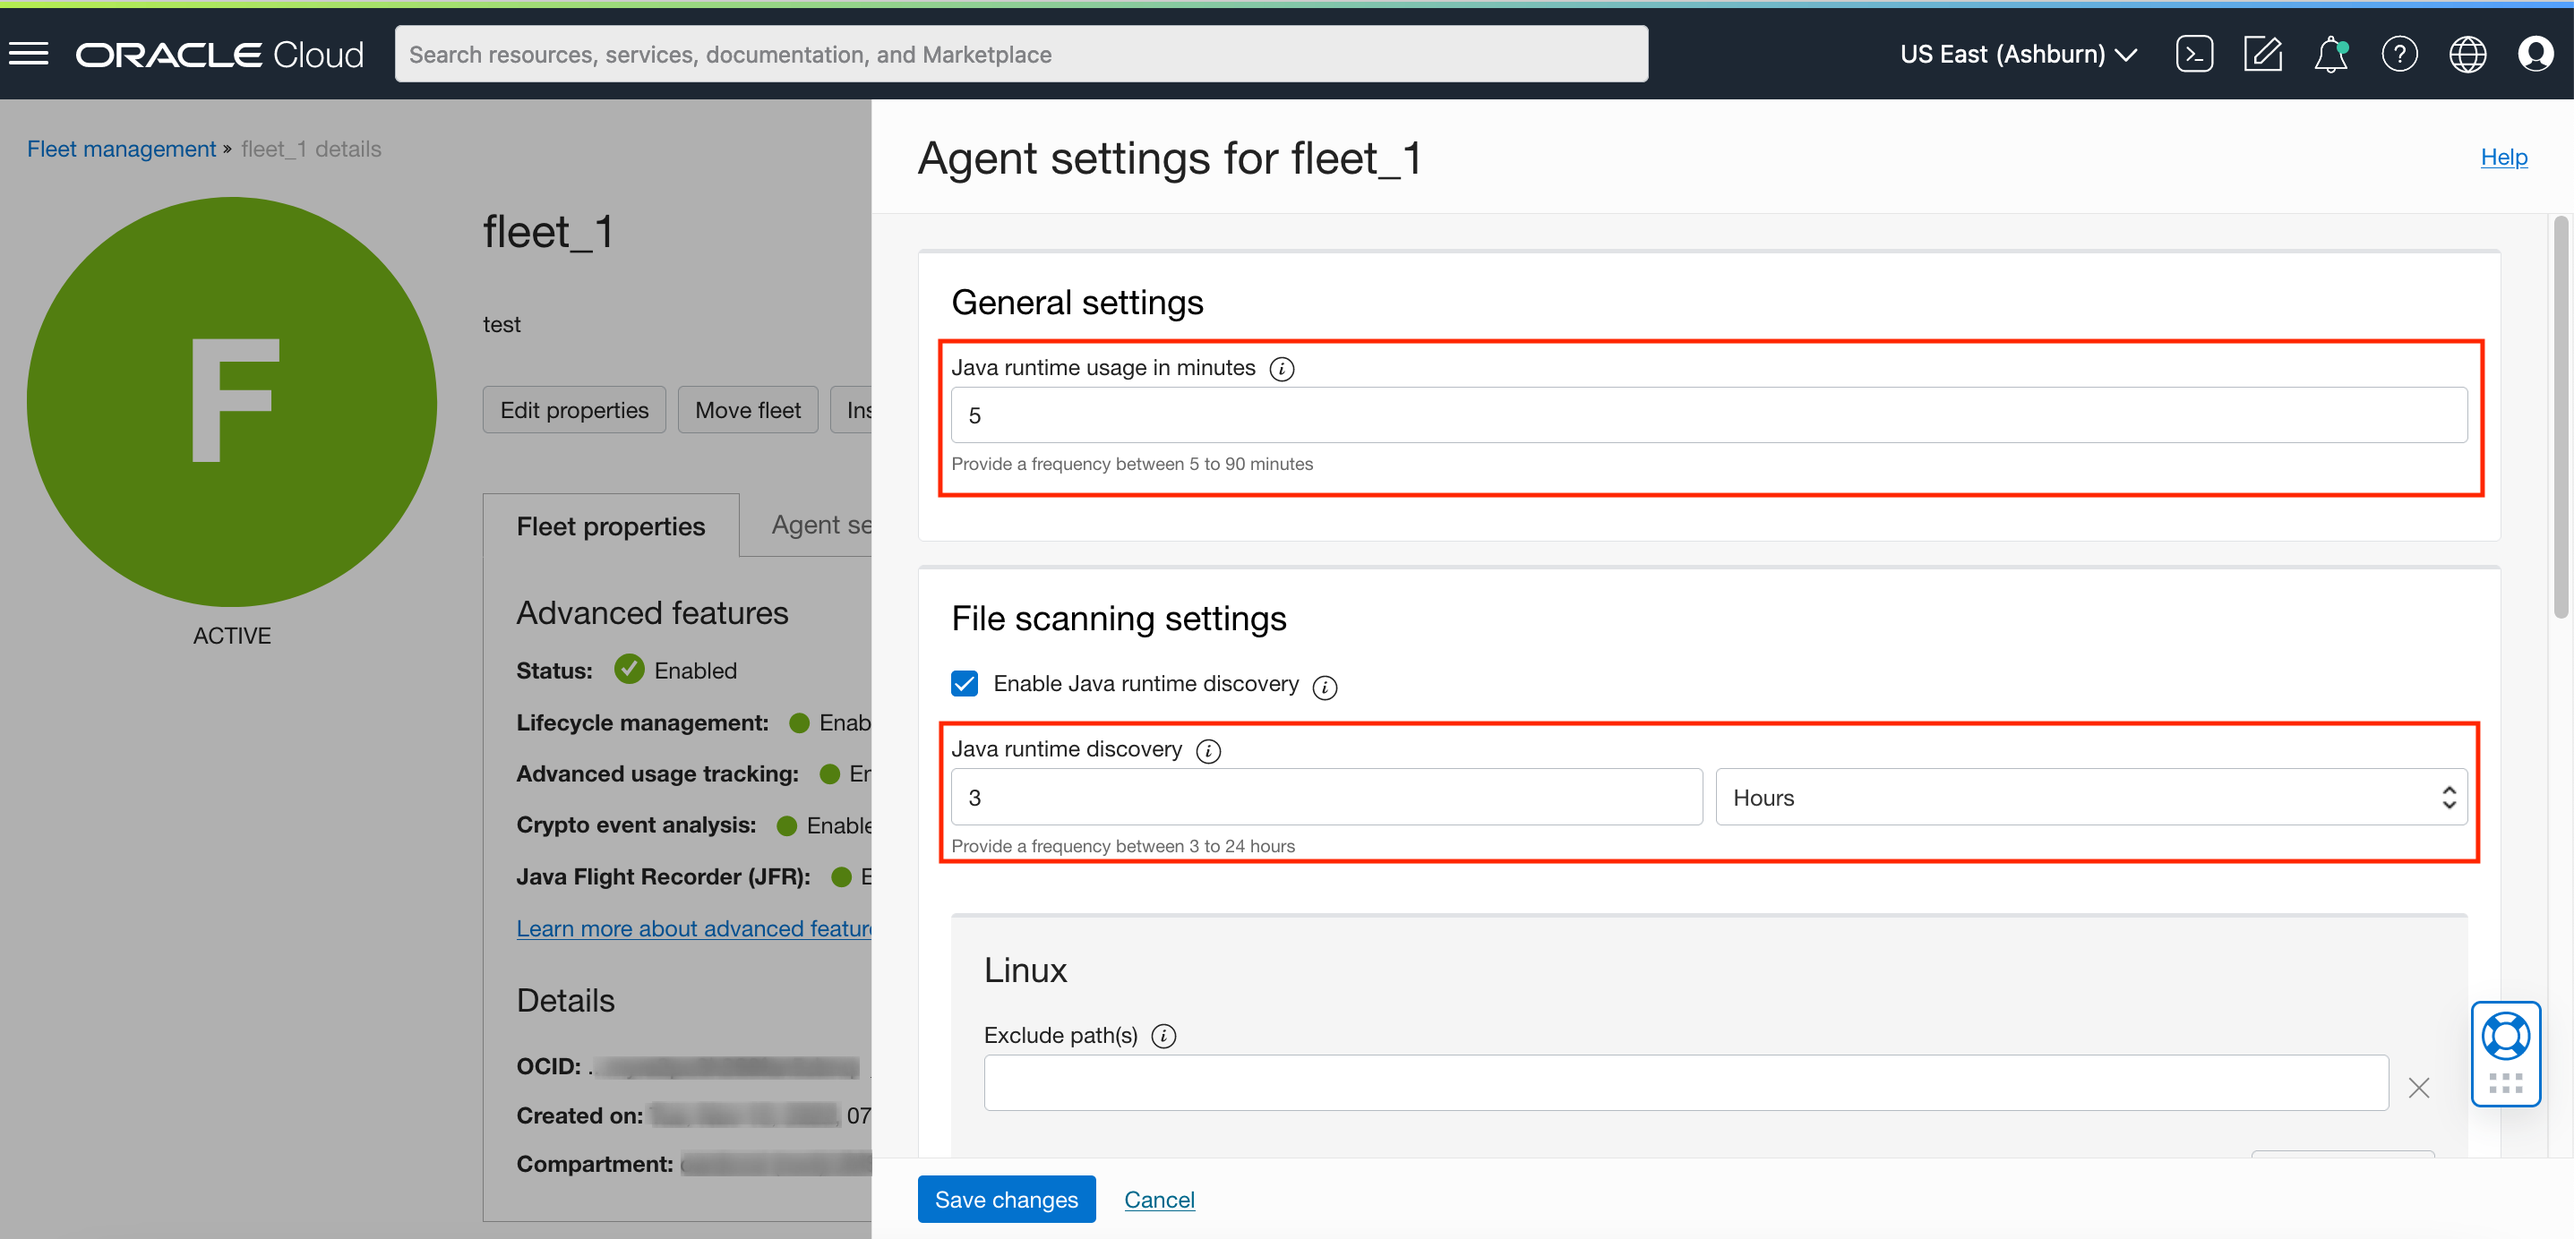
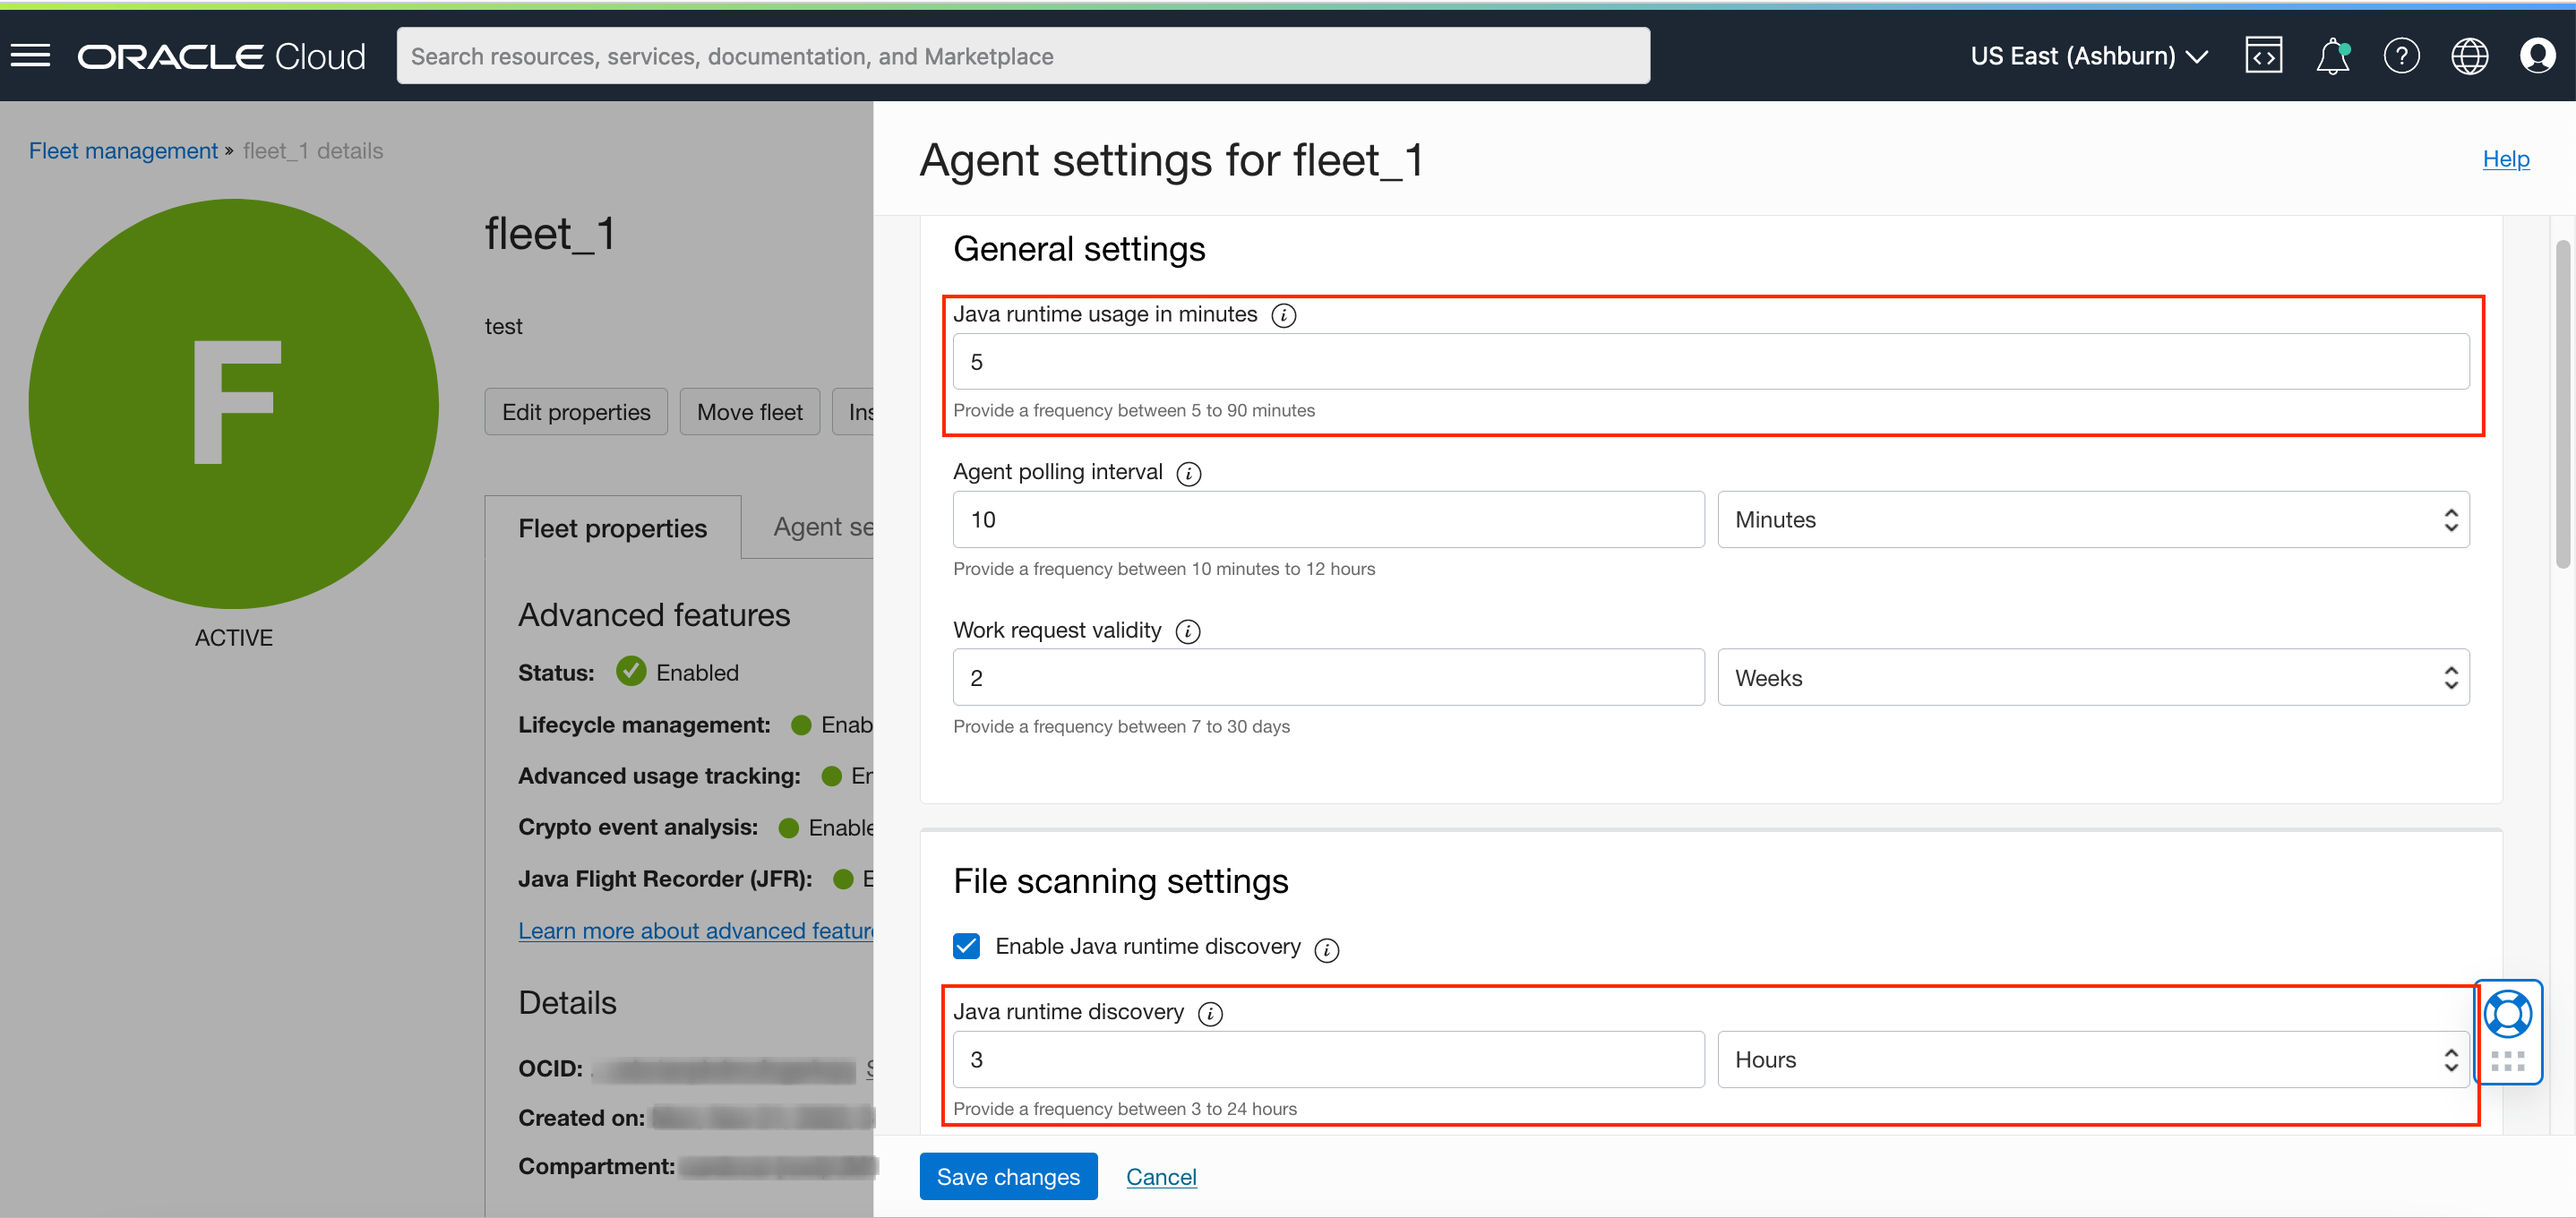
Updated images, added new policies in setup-a-fleet, modified set-up-of-management-agent

diff --git a/java-management/set-up-of-management-agent/set-up-of-management-agent.md b/java-management/set-up-of-management-agent/set-up-of-management-agent.md
@@ -21,27 +21,31 @@ In this lab, you will:
 - You are using an Oracle Linux image or Windows OS on your Managed Instance for this lab.
 - Access to the cloud environment and resources configured in [Lab 2](?lab=setup-a-fleet).
 
-## Task 1: Install Management Agent
+## Task 1: Install Management Agent on an OCI Host
 
-> **Note:** If you are installing the agent on an **OCI compute instance**, you need to add this policy. You can remove the policy after you've installed the management agent.
+This task is for the installation of Management Agent in an OCI Host (OCI Compute Instance). If you are installing the agent on a non-OCI host (e.g. on premise, other cloud computes) please skip to Task 2.
 
-  To add a policy, in the Oracle Cloud Console, open the navigation menu and click **Identity & Security**. Under **Identity**, click **Policies**.
+**Pre-installation Policy Requirement**
+
+  >**Note:** If you are installing the agent on an OCI compute instance, you need to add this policy. You can remove the policy after you've installed the management agent.
+
+  1. To add a policy, in the Oracle Cloud Console, open the navigation menu and click **Identity & Security**. Under **Identity**, click **Policies**.
 
   ![image of console navigation to java management](images/navigate-policies.png)
 
-  Click **JMS-policies**.
+  2. Click **JMS-policies**.
   
   ![image of console navigation to java management](images/root-compartment-jms-policy.png)
 
-  Click **Edit Policy Statements**
+  3. Click **Edit Policy Statements**
   
   ![image of console navigation to java management](images/edit-jms-policy.png)
   
-  Click **+Another Statement** at the bottom right. 
+  4. Click **+Another Statement** at the bottom right. 
   
   ![image of console navigation to java management](images/jms-policy-add.png)
   
-  Add the following policy. Click **Save** to save the policy.
+  5. Add the following policy. Click **Save** to save the policy.
 
   ```
   <copy>
@@ -89,7 +93,51 @@ In this lab, you will:
      Assigned JMS Fleet is YourFleetName (ocid1.jmsfleet.oc1.iad.<some ocid hash>).
      ```
 
-**On Linux (on premise)**
+**On Windows (on OCI)**
+
+1. Prepare the **installation script** for Windows downloaded in [Lab 2](?lab=setup-a-fleet).
+
+2. Run Windows Powershell as administrator.
+
+3. Enter the following command to unblock the installation script.
+
+    ```
+    <copy>
+    Unblock-File -Path <path-to-installation-script>
+    </copy>
+    ```
+
+4. Enter the following command to run the installation script. The installation may take some time to complete.
+
+    ```
+    <copy>
+    & <path-to-installation-script>
+    </copy>
+    ```
+
+5. If installation is successful, you'll see a message similar to the following:
+
+     ```
+     ...
+     Management Agent installation has been completed.
+     Management Agent plugin 'Java Management Service' installation has been completed.
+     Management Agent plugin 'Java Usage Tracking' installation has been completed.
+     Management Agent was successfully registered using key YourFleetName (ocid1.managementagentinstallkey.oc1.iad.<some ocid hash>).
+     Assigned JMS Fleet is YourFleetName (ocid1.jmsfleet.oc1.iad.<some ocid hash>).
+     ```
+
+
+## Task 2: Install Management Agent on a non-OCI Host
+
+This task is for the installation of Management Agent in a non OCI host(e.g. on premise, other cloud computer). 
+
+>**Note:** If you have installed the management agent on an OCI instance in Task 1, please skip this task and proceed to Task 3.
+
+For installation of Management agent on Non OCI hosts, you need to have both the installation script and the management agent software from [Lab 2](?lab=setup-a-fleet). 
+
+Both files need to be placed in the same directory before you proceed.
+
+**On Linux (Non-OCI Host)**
 
 1. Prepare the **installation script** for Linux downloaded in [Lab 2](?lab=setup-a-fleet). Or enter the following command to transfer the script to the remote Managed Instance.
 
@@ -98,7 +146,7 @@ In this lab, you will:
     scp -i <your-private-key-file> <path-to-installation-script> <username>@<x.x.x.x>:<copy-to-path>
     </copy>
     ```
-2. Prepare the **management agent** software for linux downloaded in [Lab 2](?lab=setup-a-fleet) or enter the following command to transfer the script to the remote instance. Ensure that the **management agent** software is in the same directory as the **installation script**.
+2. Prepare the **management agent** software for linux downloaded in [Lab 2](?lab=setup-a-fleet) or enter the following command to transfer the script to the remote instance. Both the **management agent** software and the **installation script** must be placed in the same directory.
 
     ```
     <copy>
@@ -133,44 +181,12 @@ In this lab, you will:
      Management Agent was successfully registered using key YourFleetName (ocid1.managementagentinstallkey.oc1.iad.<some ocid hash>).
      Assigned JMS Fleet is YourFleetName (ocid1.jmsfleet.oc1.iad.<some ocid hash>).
      ```
-**On Windows (on OCI)**
+
+**On Windows (Non-OCI Host)**
 
 1. Prepare the **installation script** for Windows downloaded in [Lab 2](?lab=setup-a-fleet).
 
-2. Run Windows Powershell as administrator.
-
-3. Enter the following command to unblock the installation script.
-
-    ```
-    <copy>
-    Unblock-File -Path <path-to-installation-script>
-    </copy>
-    ```
-
-4. Enter the following command to run the installation script. The installation may take some time to complete.
-
-    ```
-    <copy>
-    & <path-to-installation-script>
-    </copy>
-    ```
-
-5. If installation is successful, you'll see a message similar to the following:
-
-     ```
-     ...
-     Management Agent installation has been completed.
-     Management Agent plugin 'Java Management Service' installation has been completed.
-     Management Agent plugin 'Java Usage Tracking' installation has been completed.
-     Management Agent was successfully registered using key YourFleetName (ocid1.managementagentinstallkey.oc1.iad.<some ocid hash>).
-     Assigned JMS Fleet is YourFleetName (ocid1.jmsfleet.oc1.iad.<some ocid hash>).
-     ```
-
-**On Windows (on premise)**
-
-1. Prepare the **installation script** for Windows downloaded in [Lab 2](?lab=setup-a-fleet).
-
-2. Prepare the **management agent** software for Windows downloaded in [Lab 2](?lab=setup-a-fleet). Ensure that the management agent software is in the same directory as the **installation script**
+2. Prepare the **management agent** software for Windows downloaded in [Lab 2](?lab=setup-a-fleet). Both the **management agent** software and the **installation script** must be placed in the same directory.
 
 3. Run Windows Powershell as administrator.
 
@@ -201,7 +217,8 @@ In this lab, you will:
      Assigned JMS Fleet is YourFleetName (ocid1.jmsfleet.oc1.iad.<some ocid hash>).
      ```
 
-## Task 2: Verify Management Agent Installation
+
+## Task 3: Verify Management Agent Installation
 
 1. In the Oracle Cloud Console, open the navigation menu, click **Observability & Management**, and then click **Agents** under **Management Agent**.
 
@@ -211,7 +228,7 @@ In this lab, you will:
 
   ![image of agents main page](images/agents-main-page-new.png)
 
-## Task 3: Verify Plug-in Deployment
+## Task 4: Verify Plug-in Deployment
 
 **On non-OCI Linux Managed Instances:**
 
@@ -251,7 +268,7 @@ In this lab, you will:
 
   ![image of plug-in detail page](images/windows-plugin.png)
 
-## Task 4: Check that management agent is tagged with the Fleet OCID
+## Task 5: Check that management agent is tagged with the Fleet OCID
 
 1. In the Oracle Cloud Console, open the navigation menu, click **Observability & Management**, and then click **Fleets** under **Java Management**.
 
@@ -280,7 +297,7 @@ In this lab, you will:
 
 8. The management agent has been associated to your fleet in JMS. It will now collect information on your Java runtimes and Java Usage based on the scanning frequency defined in [Lab 2: Set Up a Fleet](?lab=setup-a-fleet).
 
-## Task 5: Verify detection of Java applications and runtimes
+## Task 6: Verify detection of Java applications and runtimes
 
 For the logging of applications to be visible, Java applications must be run again after the installation of the Management Agent. Now that the Management Agent has been set up in your compute instance, it will be able to detect new Java applications that have been executed. This can be observed in the Oracle Cloud Console.
 

diff --git a/java-management/setup-a-fleet/setup-a-fleet.md b/java-management/setup-a-fleet/setup-a-fleet.md
@@ -75,7 +75,18 @@ In this lab, you will:
 
   ![image of fleet details page](images/fleet-details-page-new.png)
 
-10. Change the **Java Runtime Discovery** and **Java Runtime Usage** to the desired value. For this example, change **Java Runtime Discovery** to **3 hours**, and **Java Runtime Usage** to **5 minutes**.
+10. Change the **Java Runtime Usage**, **Agent Polling Interval**, **Work Request Validity** and  **Java Runtime Discovery** to the desired value. 
+
+    **Java Runtime Usage**: How frequent agents reports Java usage. 
+
+    **Agent Polling Interval**: How frequent which agents check for work request to execute
+ 
+    **Work Request Validity**: The time period for accepting the work request by the agents involved.
+
+    **Java Runtime Discovery**: How frequent agents scan for Java installation.
+
+
+For this example, change **Java Runtime Discovery** to **3 hours**, and **Java Runtime Usage** to **5 minutes**.
 
   ![image of modify agent settings page](images/fleet-modify-agent-settings-new.png)
 
@@ -84,6 +95,40 @@ In this lab, you will:
   ![image of modify agent settings page](images/fleet-modify-agent-settings-save.png)
 
 You may now **proceed to the next lab**.
+
+## Task 2: Verifying policies and Dynamic Groups required for advanced features
+1. This task will verify the creation of the policies and Dynamic Groups required for the advanced features when advanced features was enabled during the fleet creation.
+
+2. In the Oracle Cloud Console, open the navigation menu, click **Identity & Security**. Under **Identity**, select **Dynamic Groups**
+
+  ![image of console navigation to dynamic groups](images/console-navigation-dynamic-groups.png)
+
+3. There should be 2 additional dynamic groups created. 
+    * JMS\_Advanced\_Features\_MACS_GROUP
+    * JMS\_Advance\_Features\_INSTANCE_PRINCIPALS\_GROUP
+
+   ![image of dynamic groups page](images/dynamic-groups-page.png)
+
+   ![image of macs group rules](images/macs-group-rules.png)
+
+   ![image of instance principals group rules](images/instance-principals-group-rules.png)
+
+4. Back on the Dynamic Groups page, click on **Policies** from the Identity menu on the left
+
+  ![image of dynamic groups page policies select](images/dynamic-groups-page-policies-select.png)
+
+5. Select the compartment where the fleet was created in Task 1 (Compartment name should be **Fleet_Compartment**). You should see the policy name **JMS-Advanced-Features**. Click on the policy name **JMS-Advanced-Features**.
+
+  ![image of policies page](images/policies-page.png)
+
+6. There should be 3 policy statements. 
+    ```
+    ALLOW dynamic-group JMS_Advanced_Features_INSTANCE_PRINCIPALS_GROUP to MANAGE object-family in compartment Fleet_Compartment
+    ALLOW dynamic-group JMS_Advanced_Features_MACS_GROUP to MANAGE objects in compartment Fleet_Compartment
+    ALLOW service javamanagementservice to USE object-family in compartment Fleet_Compartment
+    ```
+
+    ![image of policy details page](images/policy-details-page.png)
 
 ## Learn More
 

diff --git a/java-management/understand-concepts-related-to-management-agent/understand-concepts-related-to-management-agent.md b/java-management/understand-concepts-related-to-management-agent/understand-concepts-related-to-management-agent.md
@@ -43,7 +43,6 @@ Before the set up of the Management Agent, it is important to understand the con
   
   The script does the following functions:
     - Install the Management Agent software.
-    - For non-OCI instances, the **Management Agent** software needs to be downloaded (download management agent software) and placed in the same directory as the **Installation Script**
     - Configure the agent with the specific key for the fleet.
     - Install JMS plugins for Java runtime discovery and usage reporting and Lifecycle management operations.
     - Configure the usage tracker.
